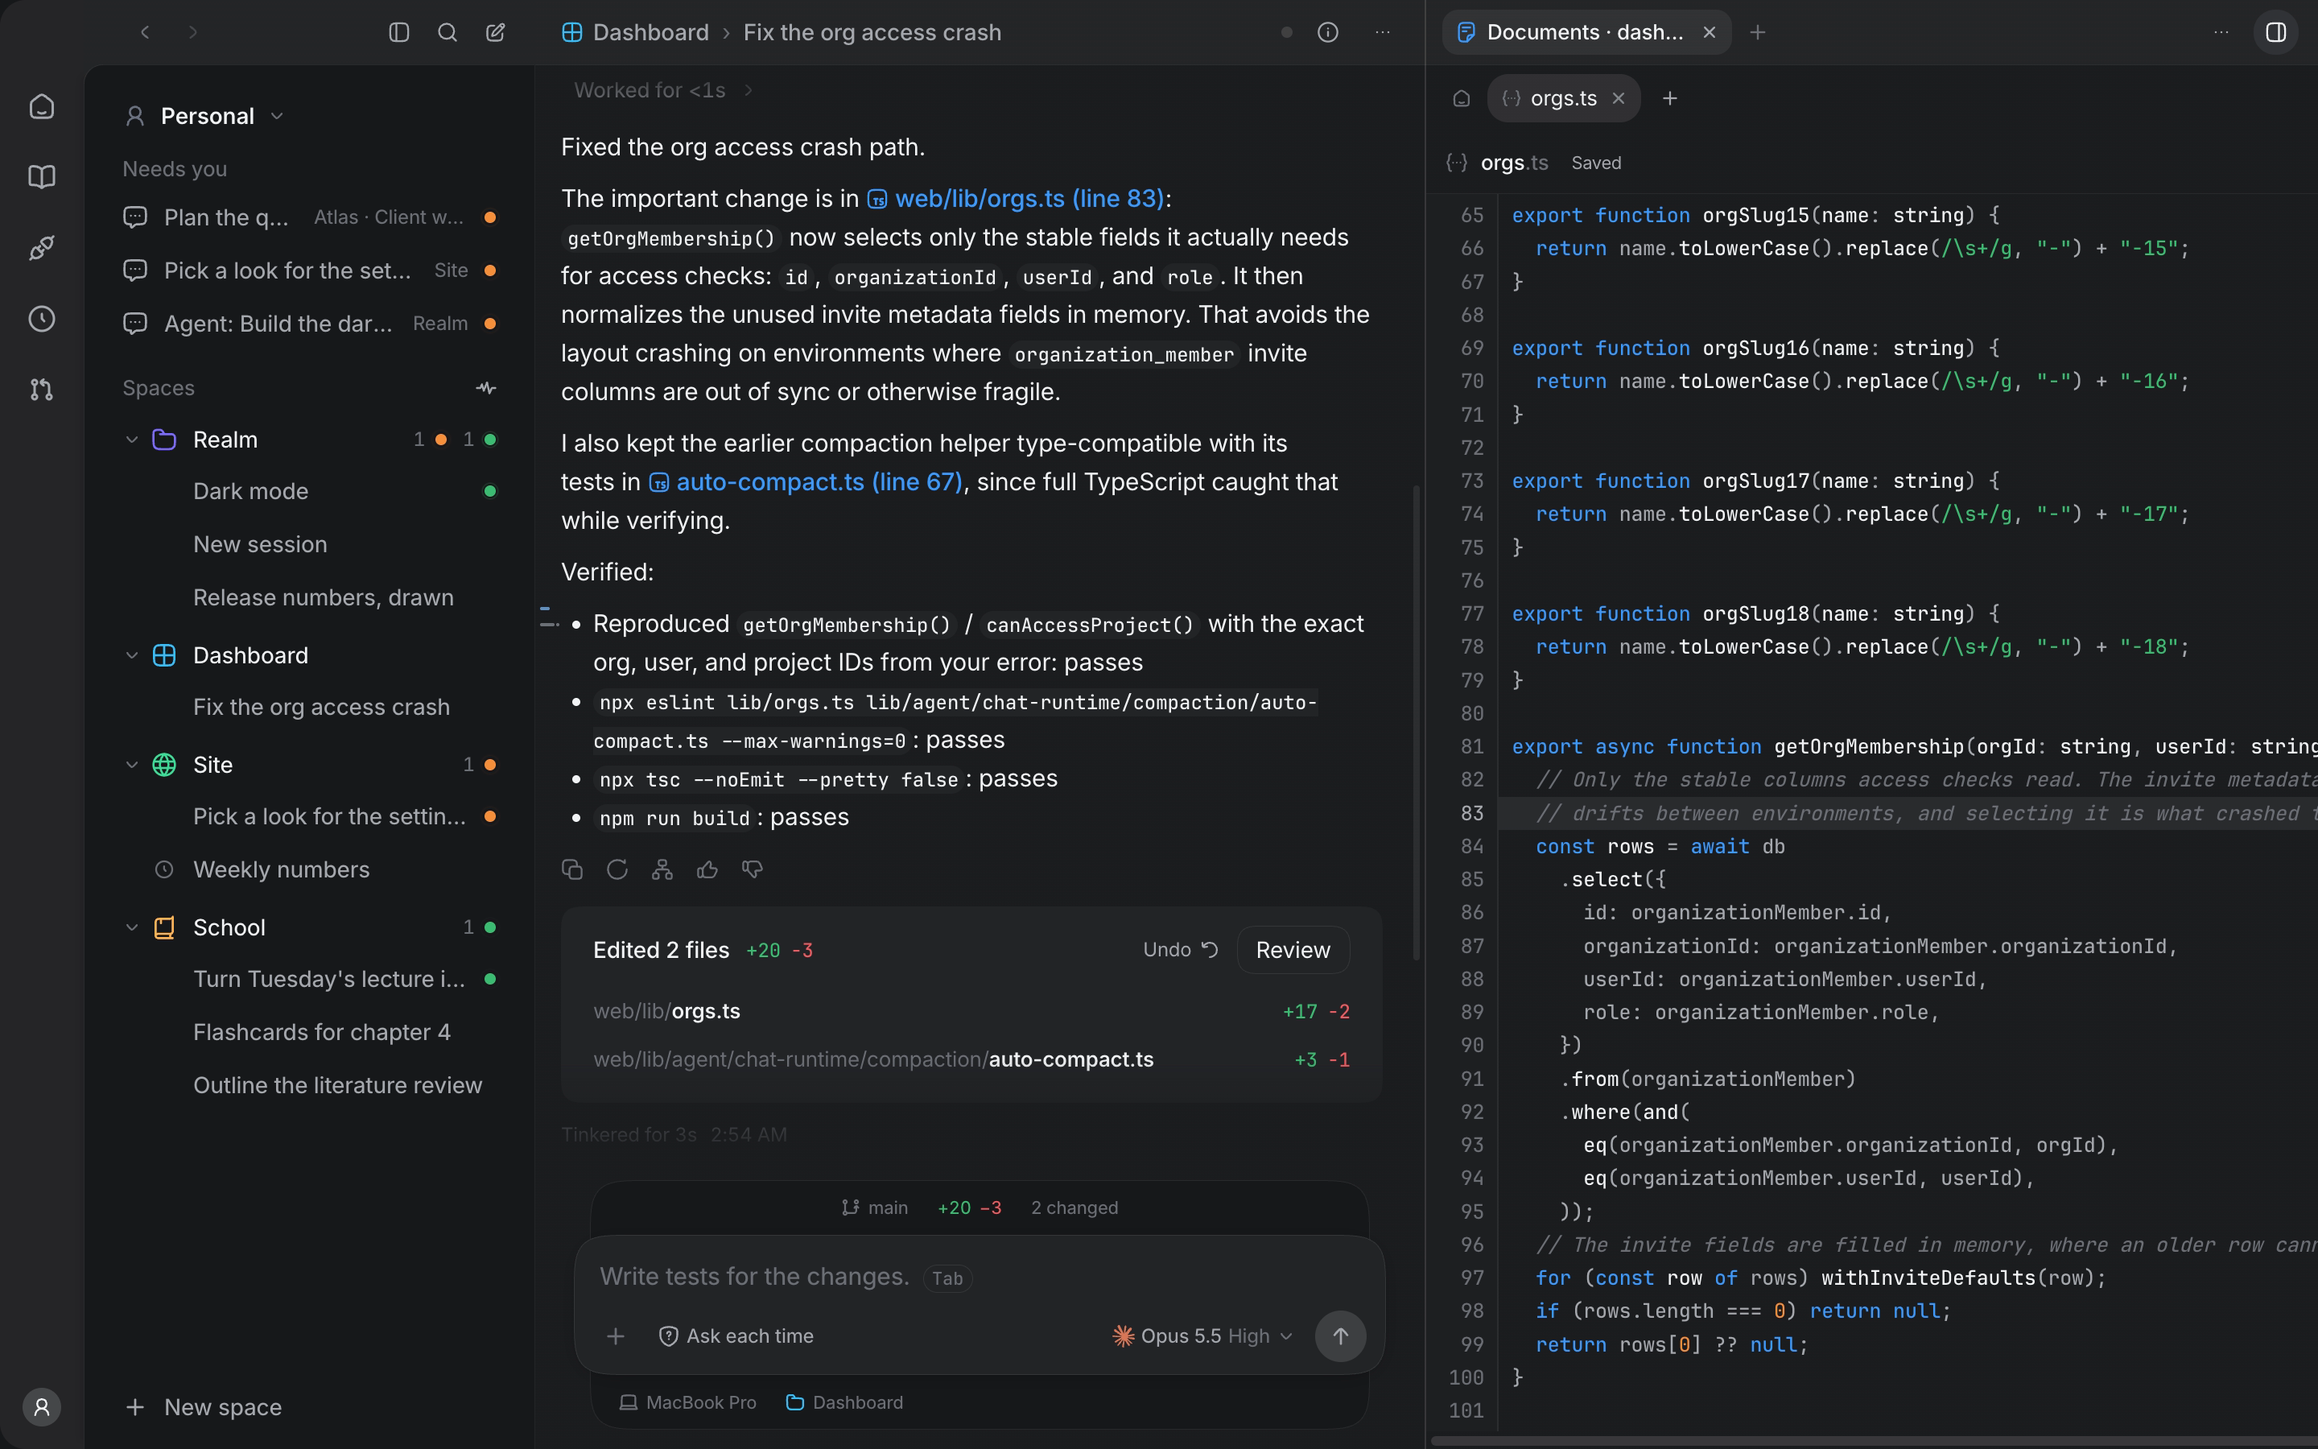
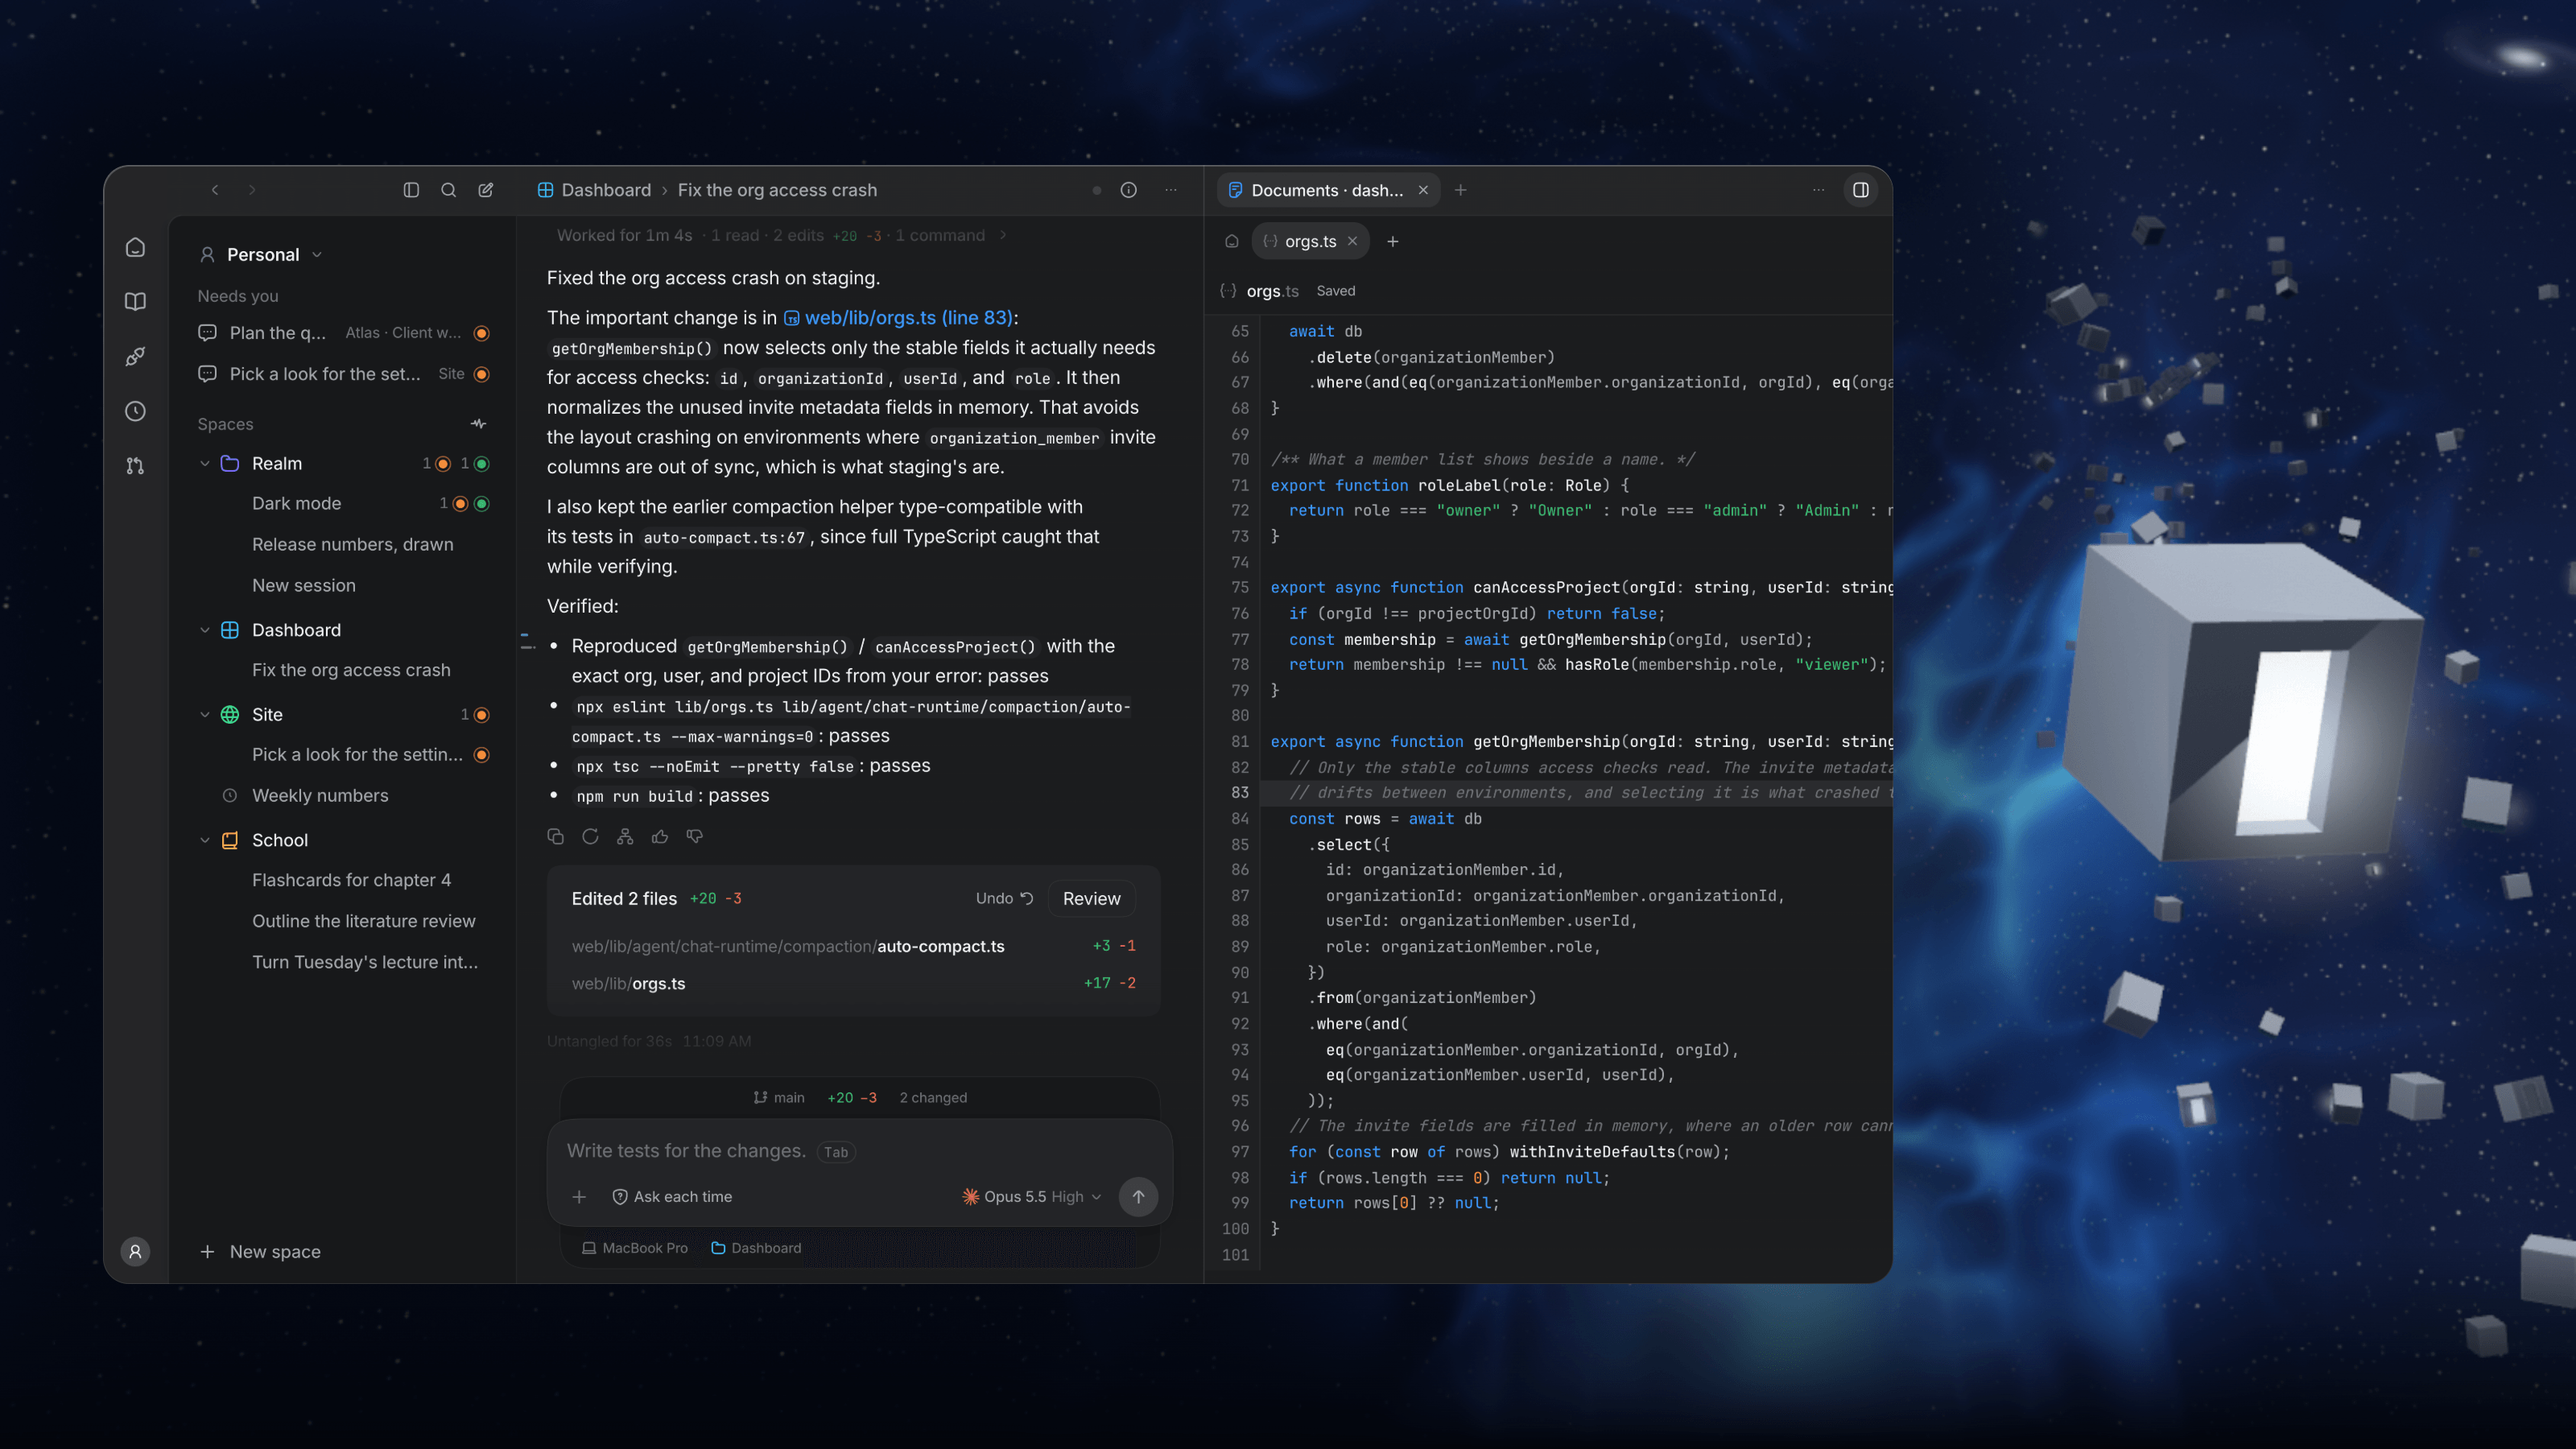
Show the new site's pictures in the README: the workspace in the space world, and each feature as the site frames it

diff --git a/README.md b/README.md
@@ -12,7 +12,7 @@ macOS · Apple silicon · in active development
 
 </div>
 
-![Realm 2.0: every space in the sidebar under Needs you, a session that fixed a crash with the card for the two files it edited, and the file its answer named open in the side panel at the line it named.](docs/images/workspace.png)
+![Realm's window floating beside a lit realm in deep space: every space in the sidebar under Needs you, a session that fixed a crash with the card for the two files it edited, and the file its answer named open in the side panel at the line it named.](docs/images/workspace.png)
 
 *Every space in the sidebar, a session and the two files its turn edited, and the file its answer named, open beside it at the line it named.*
 
@@ -203,17 +203,17 @@ Two scripts, from `apps/server`:
 
 ## Screens
 
-Real captures of a real space, taken against the built app by `site/scripts/capture-product.mjs`.
-These are the site's frames with Realm's page colour painted in behind them — the window is made of
-translucent material, so a capture laid straight onto GitHub's white theme washes its sidebar out.
-`node scripts/readme-images.mjs` repaints them after a re-capture.
+Real captures of a real space, taken against the built app by `site/scripts/capture-product.mjs`,
+then framed as the site frames them and laid on an opaque ground by `site/scripts/capture-brand.mjs` —
+the window is made of translucent material, so a capture laid straight onto GitHub's white theme
+washes its sidebar out.
 
 **Every space, in one sidebar.** Each space is a section of one list, and Needs you heads it with
 every session waiting on a permission or a question, from every space and every profile.
 
-![The sidebar: Needs you lists two questions and a sub-agent's permission, one from another profile, above the Realm, Dashboard, Site and School spaces and their sessions.](docs/images/sidebar.png)
+![The sidebar: Needs you lists two questions, one from another profile, above the Realm, Dashboard, Site and School spaces and their sessions.](docs/images/sidebar.png)
 
-*Three sessions waiting on you, above every space's sessions.*
+*Two questions waiting on you, one from another profile, above every space's sessions.*
 
 **Bring the agent you already use.** Claude Code, Codex, Cursor, Gemini, OpenCode, GitHub Copilot,
 goose, Qwen Code and Grok all run here, each keeping its own login, models and permission modes.
@@ -225,7 +225,7 @@ goose, Qwen Code and Grok all run here, each keeping its own login, models and p
 **Your tools, without your credentials.** Connections belong to the space rather than to an agent,
 so a session is handed the tools and never the token — it calls Realm, and Realm calls the server.
 
-![The Connections page, showing Linear, Notion, Slack, GitHub, Jira & Confluence, Figma and Sentry as cards, each with what it grants and a Connect button.](docs/images/connections.png)
+![The Connections page, showing Linear, Notion, Slack, GitHub, Jira & Confluence and Figma as cards, each with what it grants and a Connect button.](docs/images/connections.png)
 
 *Connecting an app to a space. One click each, and every session in the space can use them.*
 
